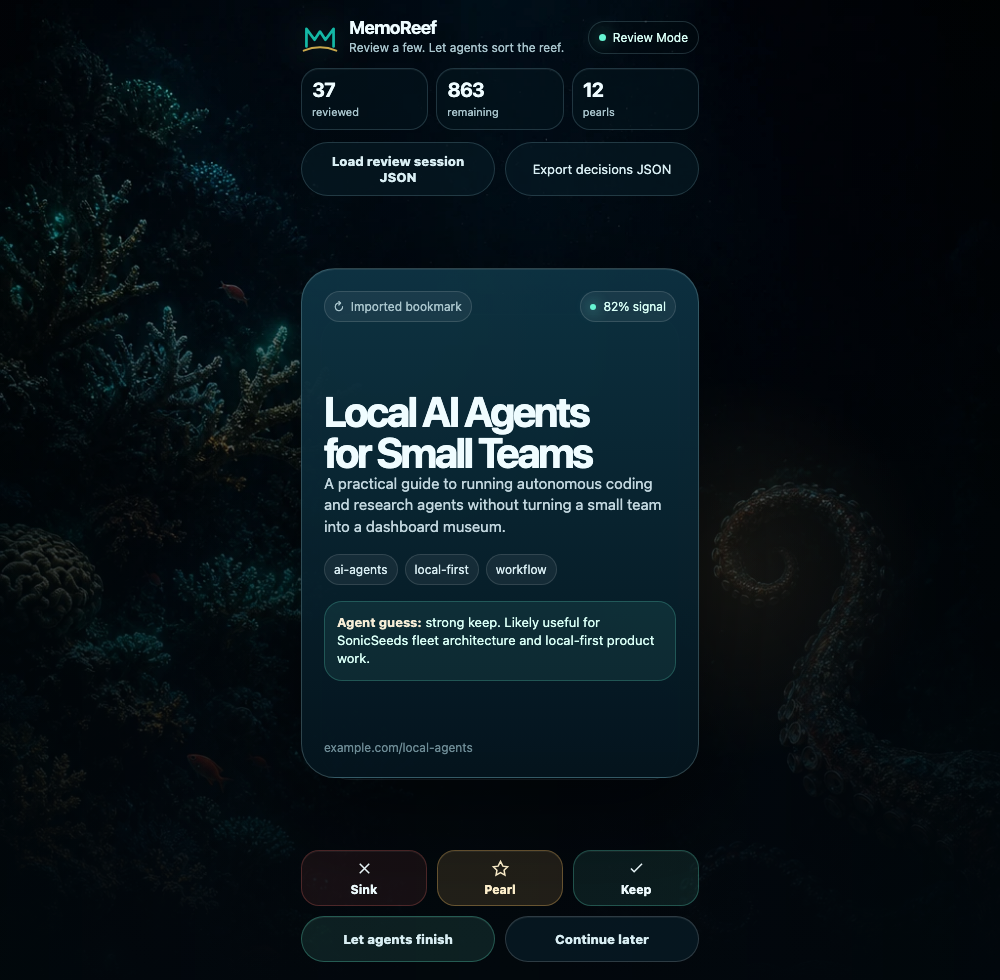
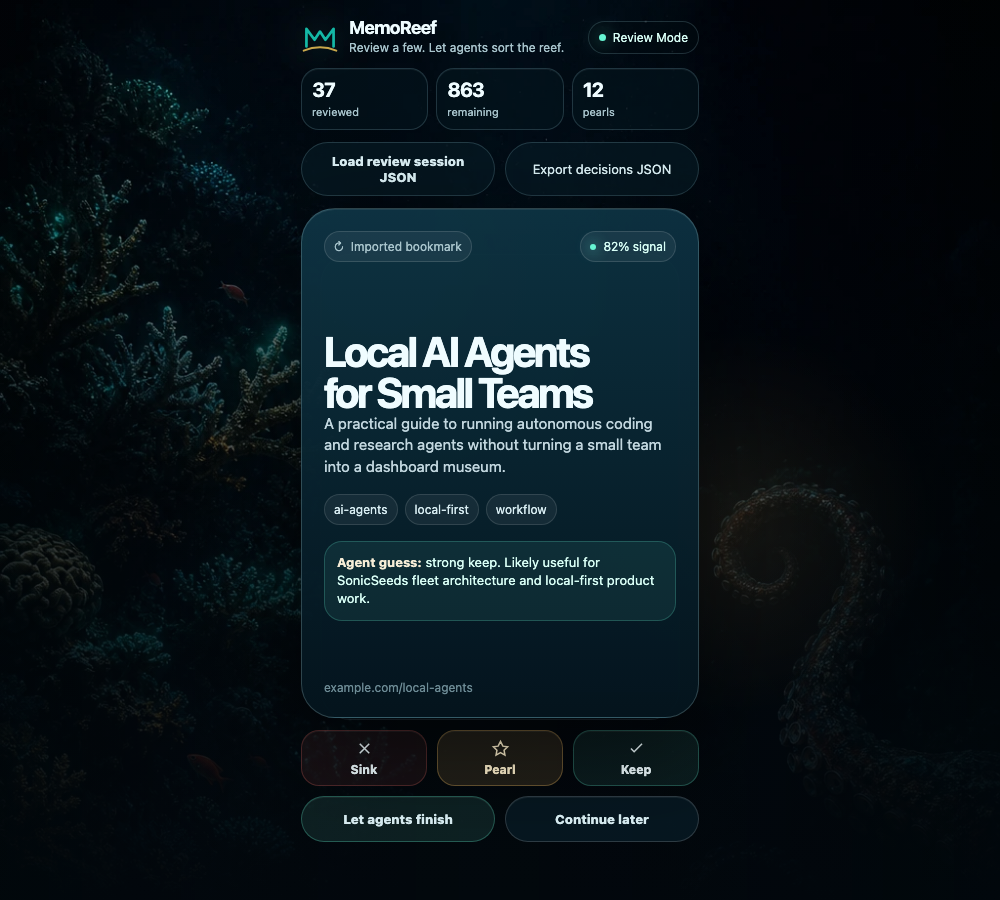
Remove desktop gap from Review Mode screenshot

diff --git a/site/swipe.html b/site/swipe.html
@@ -560,8 +560,9 @@
       .app {
         width: min(430px, 100%);
         grid-template-columns: 1fr;
-        grid-template-rows: auto auto auto 1fr auto;
+        grid-template-rows: auto auto auto auto auto;
         column-gap: 0;
+        align-content: start;
         align-items: stretch;
       }
       header,
@@ -577,7 +578,7 @@
         border-radius: 24px;
         background: rgba(4,20,29,.5);
       }
-      .stage { min-height: 520px; }
+      .stage { min-height: 430px; }
     }
 
     @media (prefers-reduced-motion: reduce) {